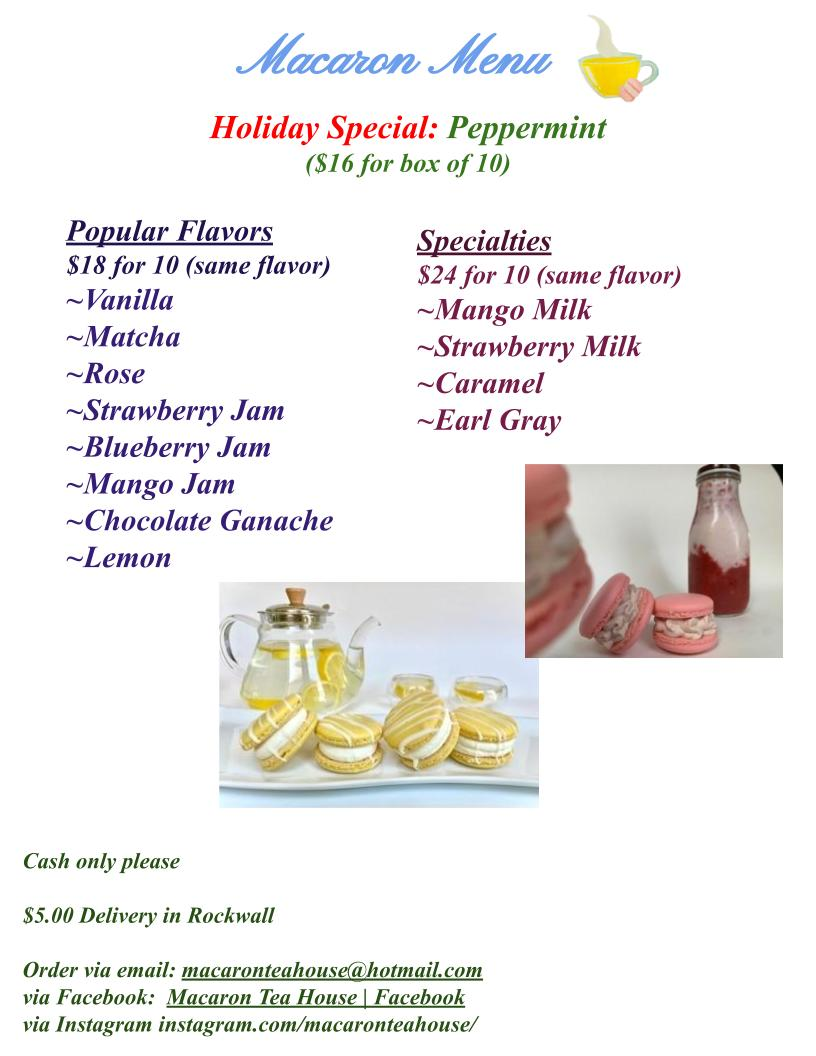
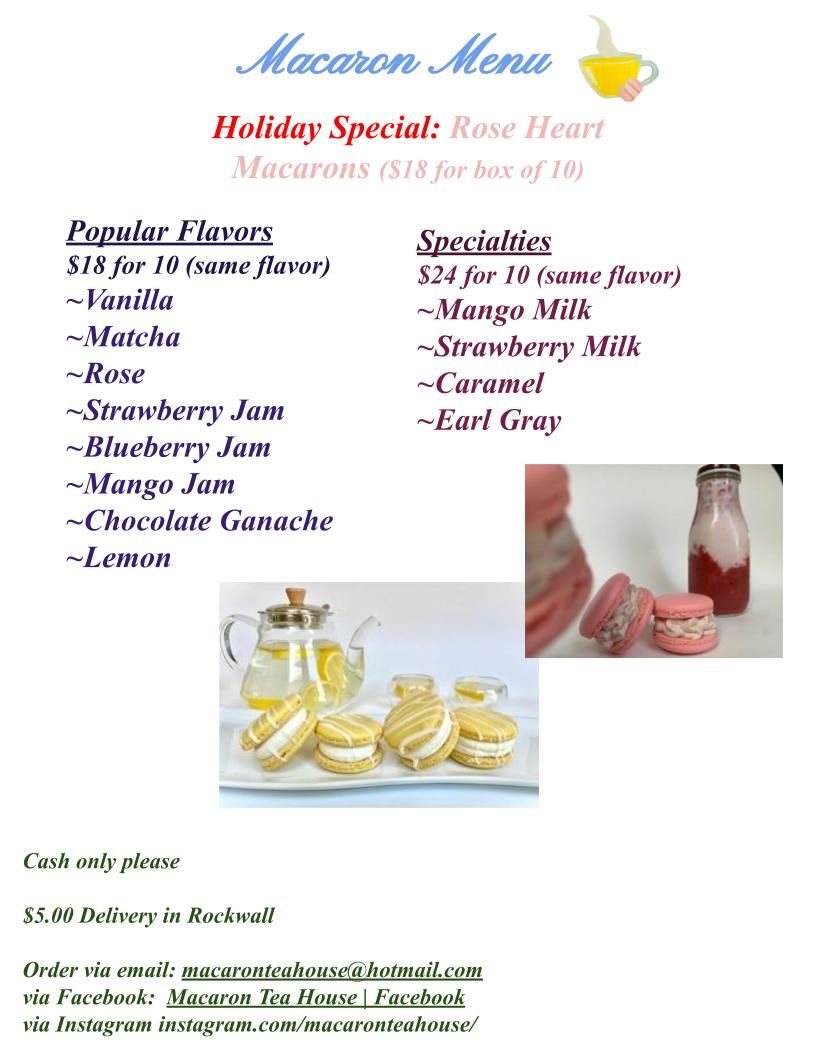
Valentine's Day

Changed region(s): [[0.2451, 0.0938, 0.7353, 0.1875]]

diff --git a/A_Special.html b/A_Special.html
@@ -63,17 +63,18 @@
 
 <body>
 <container id="title">
-	<h1> <p style="font-size:200%; width:100%"> <b> <i> Peppermint Macarons </b> </i> </p> </h1>
+	<h1> <p style="font-size:200%; width:100%"> <b> <i> Rose Macarons </b> </i> </p> </h1>
 </container>
 <container id="info">
 	<div id="chocC">
 
-		<img src="Pictures/peppermint.jpg" width="80%" height="auto">
+		<img src="Pictures/\heart3.jpg" width="80%" height="auto">
 	</div>
 	<div id="choc">
 
-		<p style="font-size:150%;color:#05b09f" width="100%" height="auto">This macaron has a delightful minty and sweet flavor. It is a perfect treat for this upcoming holiday
-		Remember to set it at room temperature 15-20 mintures before serving. $16.00 for 10 macarons. </p>
+		<p style="font-size:150%;color:#05b09f" width="100%" height="auto">Valentine's Day Special! Rose Macarons ($18 for 1 box of regular and heart macarons)
+		This year, indulge your loved ones with a special treat. This macaron has a floral scent of roses with a white chocolate drizzle. Other flavors currently available are peppermint and matcha.
+		Remember to set it at room temperature 15-20 mintures before serving. $18.00 for 10 macarons. </p>
 	</div>
 </container>
 <container id= "both">
@@ -81,7 +82,7 @@
 <p style="font-size:160%; color:#000000; position:relative; width:100%; margin:auto"> <u>Ingredients</u> <br>
 ~blanched almond flour <br> ~powdered sugar <br> ~free range egg whites
 <br> ~organic unbleached cane sugar <br> ~cream of tartar
-<br> ~fresh cream <br> ~lemon <br> ~crushed peppermint candies
+<br> ~fresh cream <br> ~lemon <br> ~organic rose water <br> ~white chocolate <br> ~sprinkles
 </div>
 
 	<div id="button-4">
